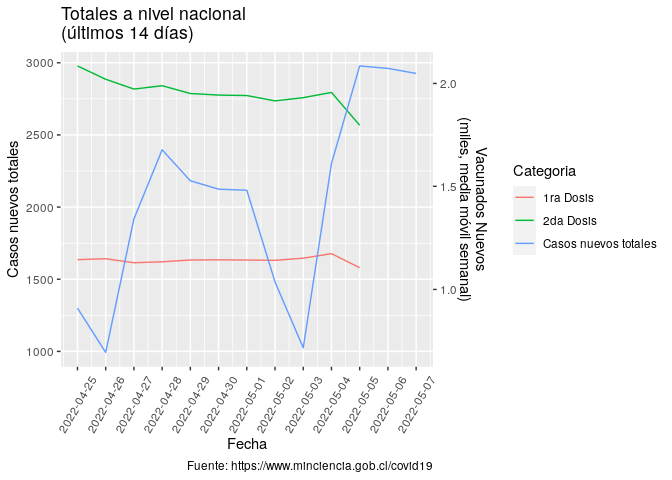
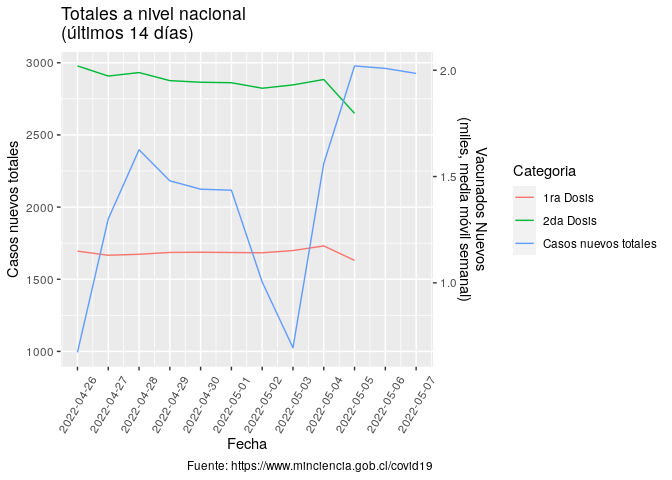
Re-build Rmarkdown files

diff --git a/README.md b/README.md
@@ -3,7 +3,7 @@
 
 Ejemplo de uso de total\_casos de COVID recopilados por el Ministerio de
 Ciencia de Chile <https://www.minciencia.gob.cl/covid19>. Última
-actualización: 2022-05-08
+actualización: 2022-05-09
 
 ## Visualización desde el comienzo de la pandemia
 
